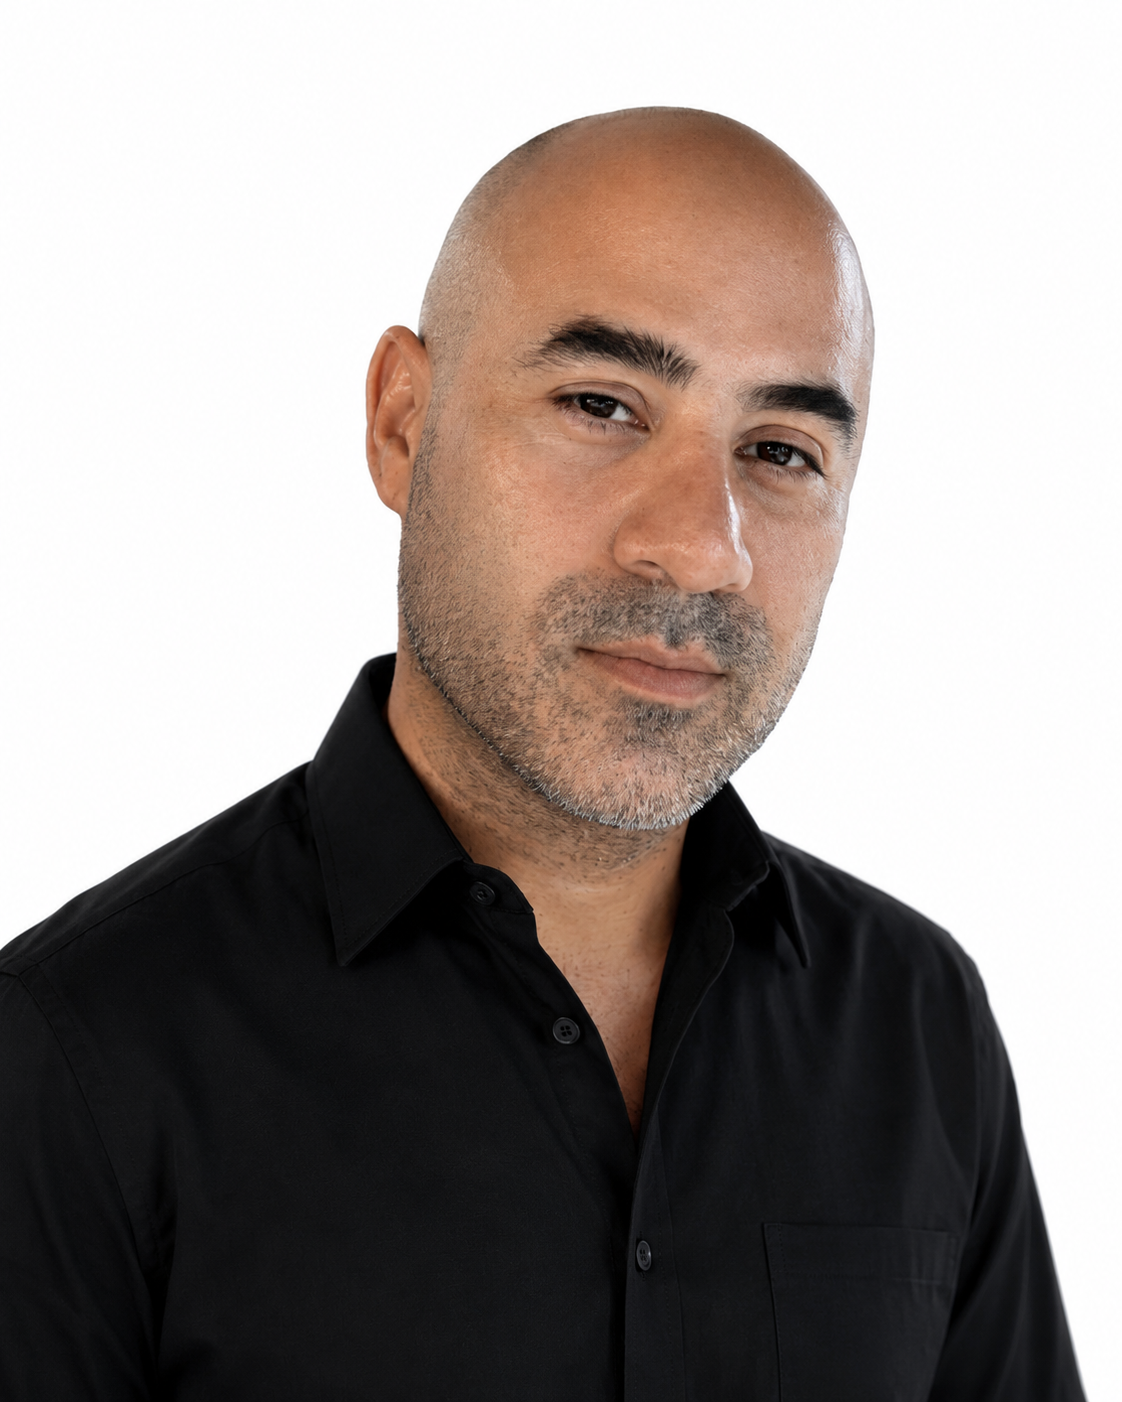
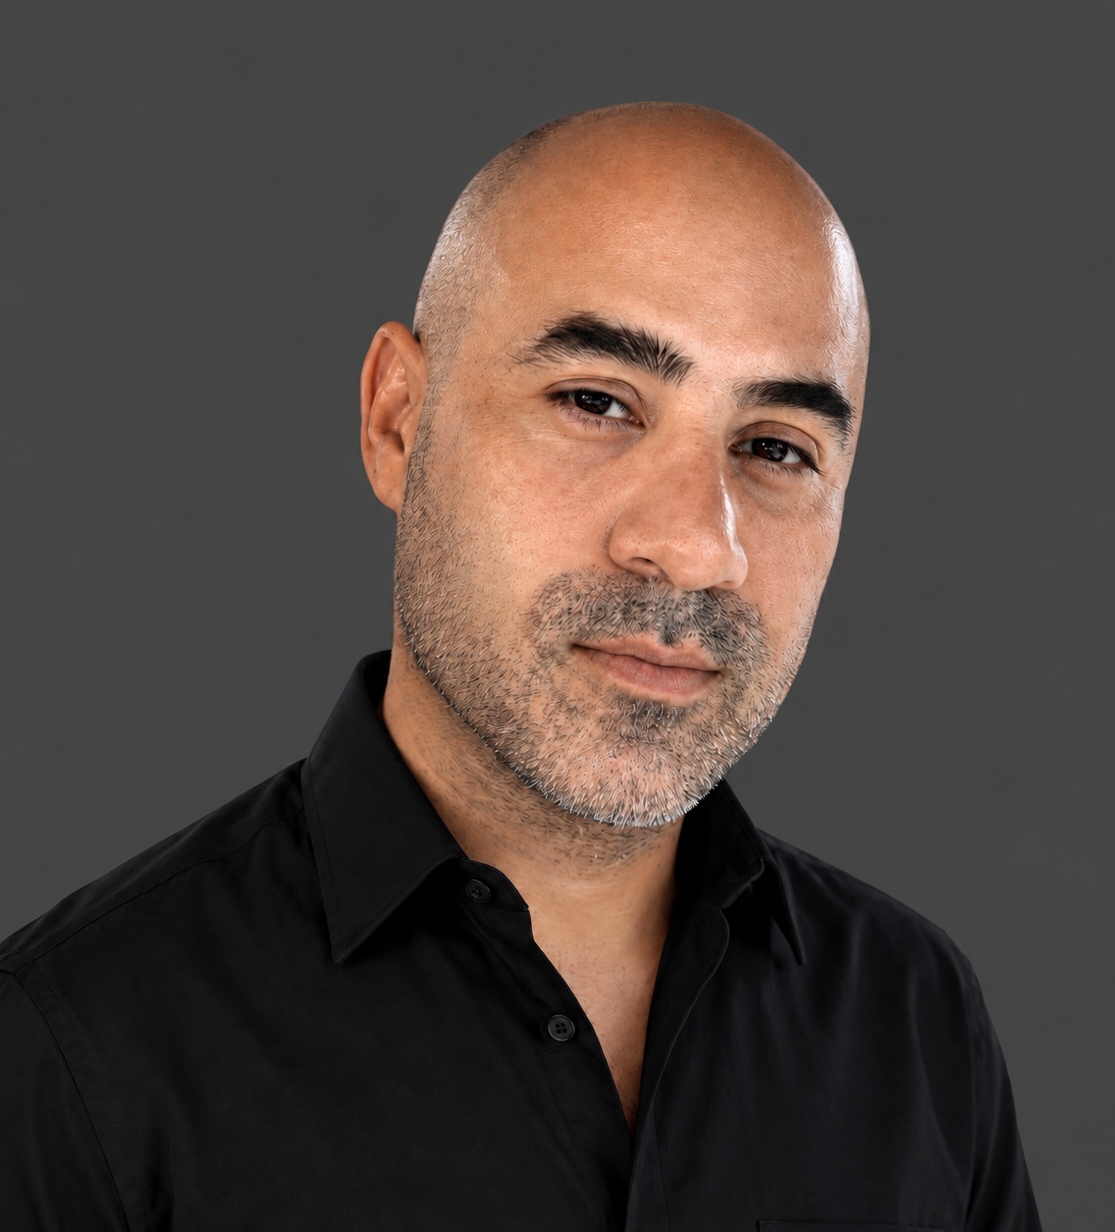
Modifications and additions

diff --git a/script.js b/script.js
@@ -220,7 +220,39 @@ openButton4.addEventListener("click", function () {
         <div class="popup-content">
             <h2>Ranting About My Generation</h2><br>
                   <p>
-                    
+                    Hear the one about the suicidal overachiever?<br>
+                    Killed himself after firing four shots to his head.<br>
+                    He always was such a hard worker.<br>
+                    Worked his way up the ladder.<br>
+                    <br>
+                    A couple of tours on the path of love<br>
+                    and he became a common man.<br>
+                    <br>
+                    Although the man is dead,<br>
+                    I stand before you now,<br>
+                    to chant this little tune today.<br> 
+                    <br>
+                    Ranting about my generation. (6 times) 
+                    <br>
+                    Another achiever from the working class
+                    almost took his life.
+                    He was about to jump off the bridge
+                    and turn his day to night.
+                    <br>
+                    He always was struggling<br>
+                    to be more than he should.<br>
+                    But in the end, he decided to live<br>
+                    and walk a different path.<br>
+                    <br>
+                    Although the man's alive,<br>
+                    I stand before you now,<br>
+                    to chant this little tune today.<br> 
+                    <br>
+                    Ranting about my generation. (6 times) 
+                    <br>
+                    Lead Guitar 🎸 Solo.......<br>
+                    <br>
+                    Ranting about my generation. (6 times) 
                   </p>
              
                 <button id="closePopup" type="button" class="btn black white-text">Close</button>

diff --git a/index.html b/index.html
@@ -259,9 +259,9 @@
         <h4 class="col-10 mb-5">Lorem ipsum dolor sit amet, consectetur adipiscing elit. Morbi ac neque odio. Fusce
           molestie justo non sapien vehicula,
           a sollicitudin nibh sodales. Phasellus hendrerit ipsum in scelerisque commodo.</h4>
-
+ 
         <div class="">
-          <video class="mb-3 v-size" controls>
+          <video class="mb-3 v-size" autoplay loop muted> 
             <source src="assets/logo-animation.mp4" type="video/mp4">
             Your browser does not support the video tag.
           </video>
